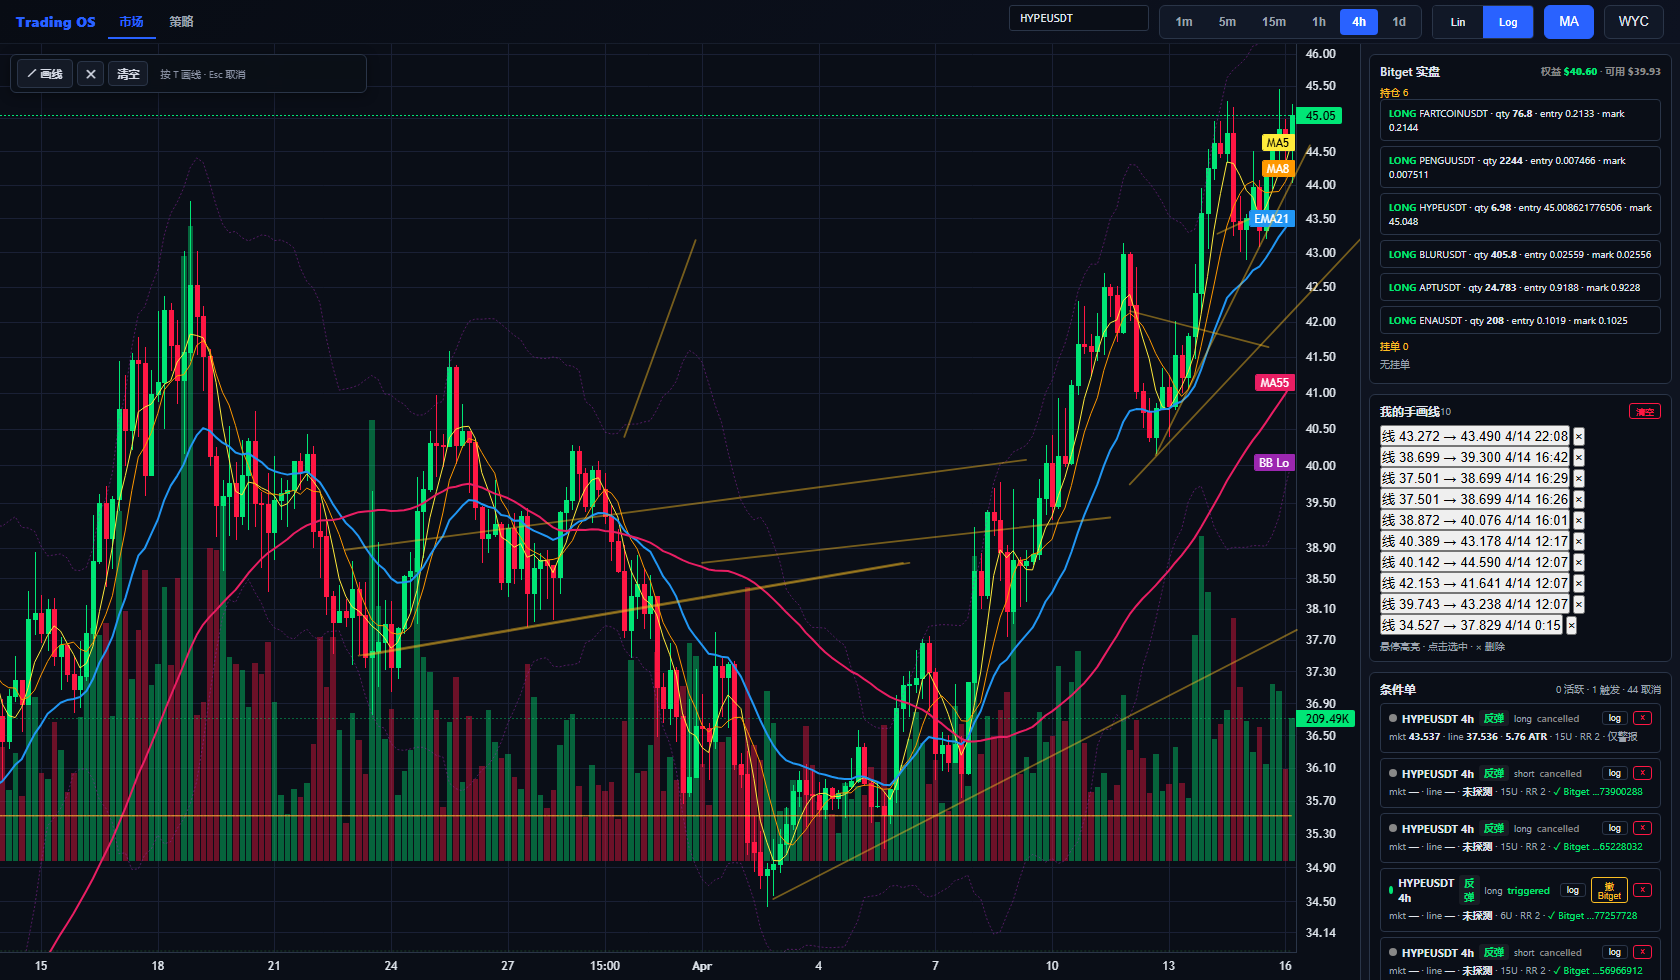
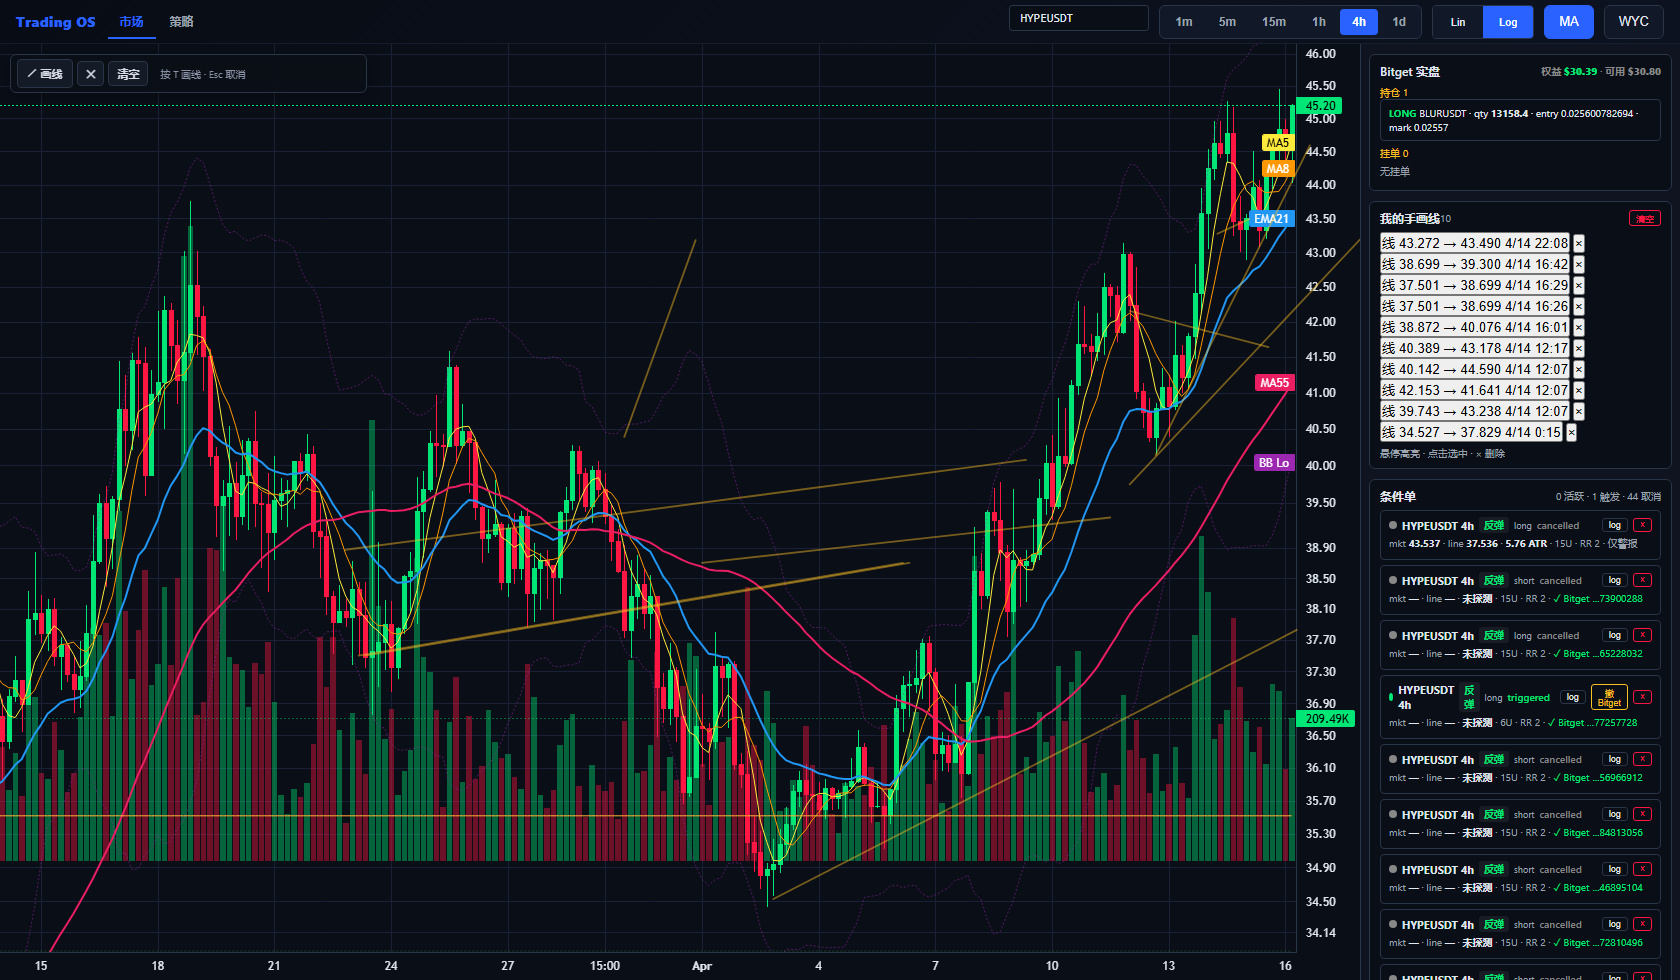
use plan orders instead of limit orders

Changed region(s): [[0.8048, 0.0918, 0.9905, 1.0], [0.7738, 0.0918, 0.8048, 0.1531]]

diff --git a/server/strategy/trendline_order_manager.py b/server/strategy/trendline_order_manager.py
@@ -78,7 +78,9 @@ async def update_trendline_orders(
     active = _load_active()
     placed = updated = cancelled = 0
     now = time.time()
-    buffer_pct = cfg.get("buffer_pct", 0.05) / 100  # default 0.05%
+    # Dynamic buffer: 0.3 × ATR/price, clamped to [0.10%, 0.15%]
+    # Higher-vol coins get slightly wider buffer, low-vol coins get tighter
+    raw_buffer_pct = cfg.get("buffer_pct", 0.12) / 100  # fallback 0.12%
     rr = cfg.get("rr", 8.0)
     leverage = int(cfg.get("leverage", 20))
 
@@ -103,6 +105,14 @@ async def update_trendline_orders(
         proj = slope * current_bar_index + intercept
         if proj <= 0:
             continue
+
+        # Dynamic buffer per coin: use ATR if available, else fixed
+        # ATR-based: buffer = 0.3 × ATR/price, clamped [0.10%, 0.15%]
+        atr_ratio = sig.get("atr_pct", 0)
+        if atr_ratio > 0:
+            buffer_pct = max(0.0010, min(0.0015, 0.3 * atr_ratio))
+        else:
+            buffer_pct = raw_buffer_pct
 
         # Calculate order prices
         if kind == "support":
@@ -131,7 +141,7 @@ async def update_trendline_orders(
             # Cancel old order, place new one
             try:
                 await adapter._bitget_request(
-                    "POST", "/api/v2/mix/order/cancel-order",
+                    "POST", "/api/v2/mix/order/cancel-plan-order",
                     body={
                         "symbol": sym.upper(),
                         "productType": "USDT-FUTURES",
@@ -168,6 +178,8 @@ async def update_trendline_orders(
                 continue
             qty = risk_usd / stop_distance
 
+            print(f"[trendline_orders] {sym} {direction}: qty={qty:.4f} trigger={limit_px:.6f} SL={stop_px:.6f} TP={tp_px:.6f} buf={buffer_pct*100:.3f}%", flush=True)
+
             now_ts = int(time.time())
             intent = OrderIntent(
                 order_intent_id=f"tl_{sym}_{now_ts}",
@@ -177,19 +189,22 @@ async def update_trendline_orders(
                 symbol=sym.upper(),
                 timeframe=tf,
                 side=direction,
-                order_type="limit",           # LIMIT, not market!
-                trigger_mode="limit",
+                order_type="market",          # executes as market WHEN triggered
+                trigger_mode="plan",
                 entry_price=limit_px,
                 stop_price=stop_px,
                 tp_price=tp_px,
                 quantity=qty,
                 status="approved",
-                reason="trendline_passive_limit",
+                reason="trendline_plan_order",
                 created_at_bar=current_bar_index,
                 created_at_ts=now_ts,
             )
 
-            resp = await adapter.submit_live_entry(intent, mode="crossed")
+            # Use PLAN ORDER — doesn't occupy margin until triggered!
+            resp = await adapter.submit_live_plan_entry(
+                intent, mode="crossed", trigger_price=limit_px,
+            )
             order_id = resp.get("exchange_order_id", "")
 
             if resp.get("ok"):
@@ -244,7 +259,7 @@ async def update_trendline_orders(
         if old.status == "placed" and old.exchange_order_id:
             try:
                 await adapter._bitget_request(
-                    "POST", "/api/v2/mix/order/cancel-order",
+                    "POST", "/api/v2/mix/order/cancel-plan-order",
                     body={
                         "symbol": old.symbol.upper(),
                         "productType": "USDT-FUTURES",

diff --git a/server/strategy/mar_bb_runner.py b/server/strategy/mar_bb_runner.py
@@ -52,25 +52,20 @@ DEFAULT_RUNNER_CFG = {
     # ── Multi-timeframe ──
     "timeframes": ["5m", "15m", "1h", "4h"],
     "timeframe": "1h",                       # legacy single-TF fallback
-    # ── Per-TF risk config (from Axel's spec, per TRENDLINE_TRADING_RULES.md) ──
-    # 3m: 0.3% per trade (亏300笔扣完)
-    # 5m: 0.3%
-    # 15m: 0.5%
-    # 1h: 1.0%
-    # 4h: 2.0%
+    # ── Per-TF risk config (Axel's interim values, pending Kelly backtest) ──
     "tf_risk": {
-        "3m":  0.003,
-        "5m":  0.003,
-        "15m": 0.005,
-        "1h":  0.010,
-        "4h":  0.020,
+        "3m":  0.003,   # 0.3%
+        "5m":  0.003,   # 0.3%
+        "15m": 0.007,   # 0.7%
+        "1h":  0.015,   # 1.5%
+        "4h":  0.030,   # 3.0%
     },
     # ── Position sizing ──
     "sizing_mode": "fixed_risk",
     "risk_pct": 0.01,               # fallback if TF not in tf_risk
     "notional_usd": 12.0,           # fallback for fixed_notional mode
     "max_position_pct": 0.50,       # max 50% equity per single position
-    "leverage": 20,
+    "leverage": 30,
     "max_concurrent_positions": 100,
     # ── Daily drawdown halt (adaptive by equity tier) ──
     # Format: [(equity_threshold, max_daily_dd_pct), ...] — checked top-down
@@ -97,7 +92,7 @@ DEFAULT_RUNNER_CFG = {
     "min_bars": 100,
     "dry_run": False,
     "auto_start": True,
-    "strategies": ["mar_bb", "mar_bb_v1", "trendline"],
+    "strategies": ["trendline"],  # MA Ribbon disabled pending SL/TP indicator research
 }
 
 
@@ -923,7 +918,7 @@ async def _do_scan() -> None:
         },
     }
     ribbon_strategies = {name: Strategy(rcfg) for name, rcfg in RIBBON_CONFIGS.items()}
-    enabled_strats = cfg.get("strategies") or ["mar_bb", "trendline"]
+    enabled_strats = cfg.get("strategies") or ["trendline"]
     signals_this_scan = 0
     orders_this_scan = 0
     _trendline_limit_signals = []  # collected per scan, batch-placed as limit orders
@@ -1098,7 +1093,7 @@ async def _do_scan() -> None:
         try:
             from server.strategy.trendline_order_manager import update_trendline_orders
             tl_cfg = {
-                "buffer_pct": cfg.get("buffer_pct", 0.05),
+                "buffer_pct": cfg.get("buffer_pct", 0.20),
                 "rr": 15.0,  # V3 limit order optimal
                 "leverage": int(cfg.get("leverage", 20)),
                 "equity": equity,

diff --git a/research/trendline_strategy.py b/research/trendline_strategy.py
@@ -37,7 +37,7 @@ DEFAULT_CONFIG = {
     "min_bounces": 2,           # the two anchor points count as 2 bounces
 
     # Entry
-    "buffer_pct": 0.05,         # enter 0.05% before the line (tighter = closer to line)
+    "buffer_pct": 0.12,         # 0.12% default; order manager uses dynamic 0.10-0.15%
     "approach_pct": 1.0,        # signal when price is within 1.0% of projected line
 
     # Exit — V3 model: stop = line itself (穿线即止损)
